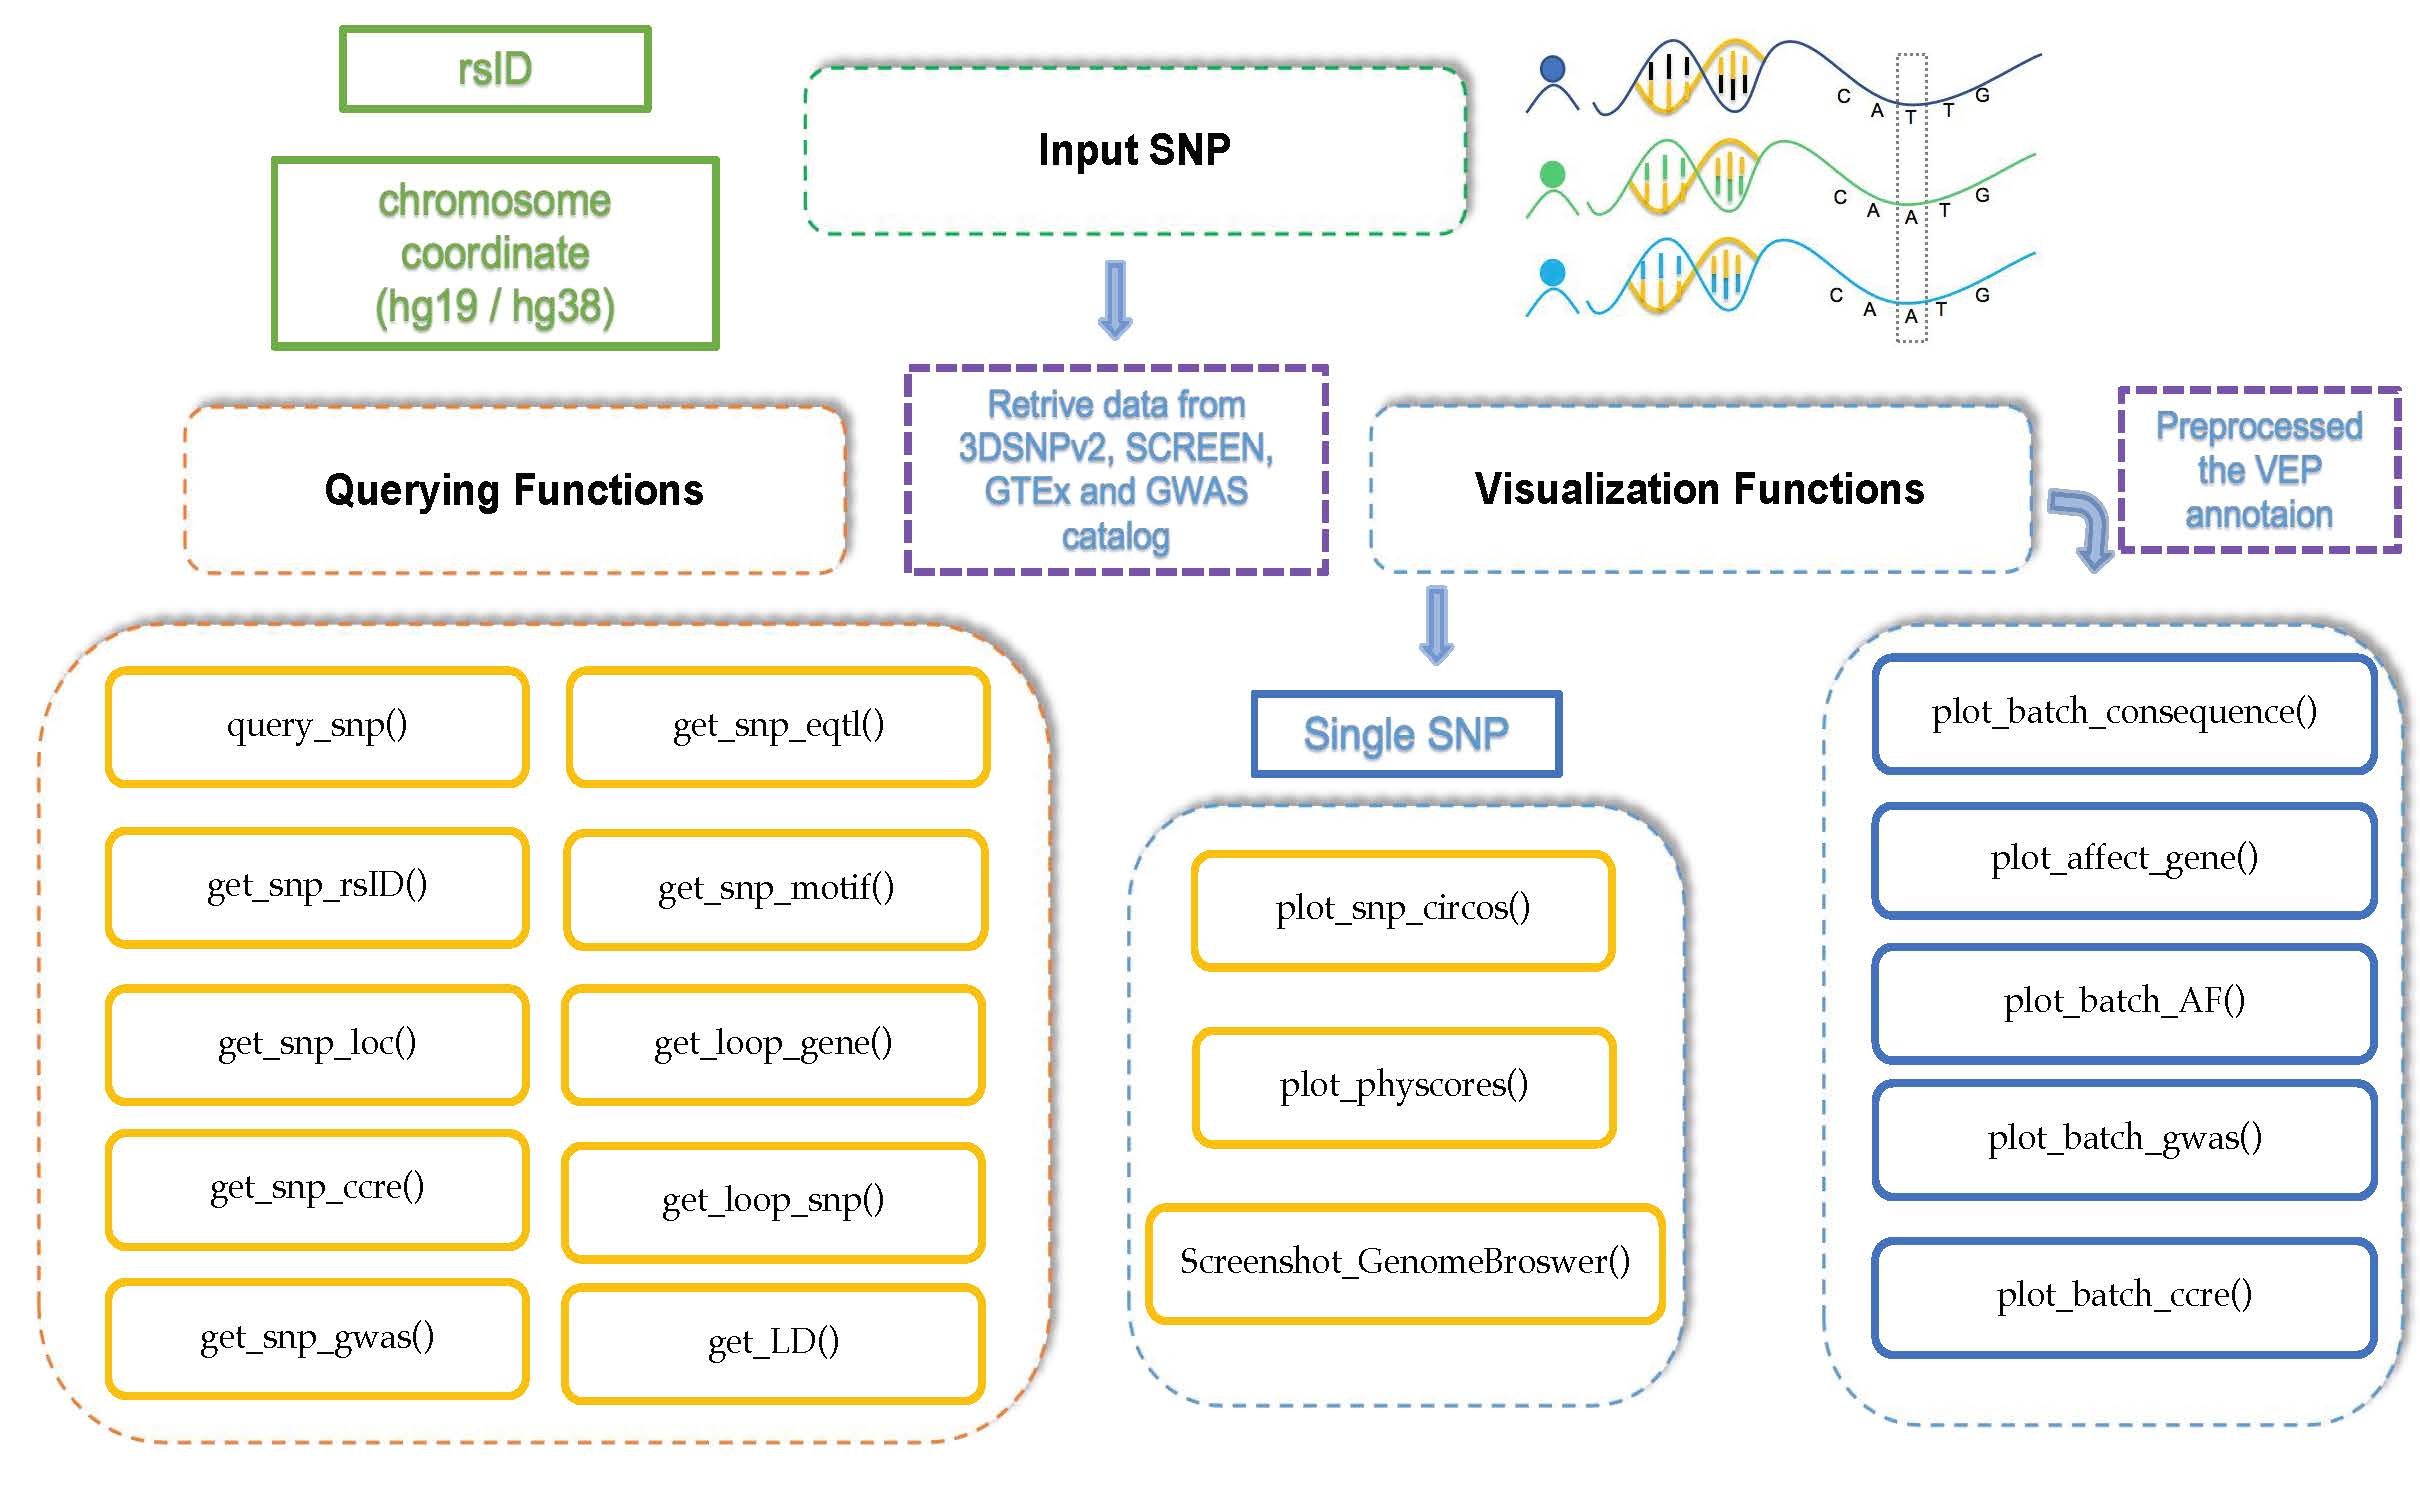
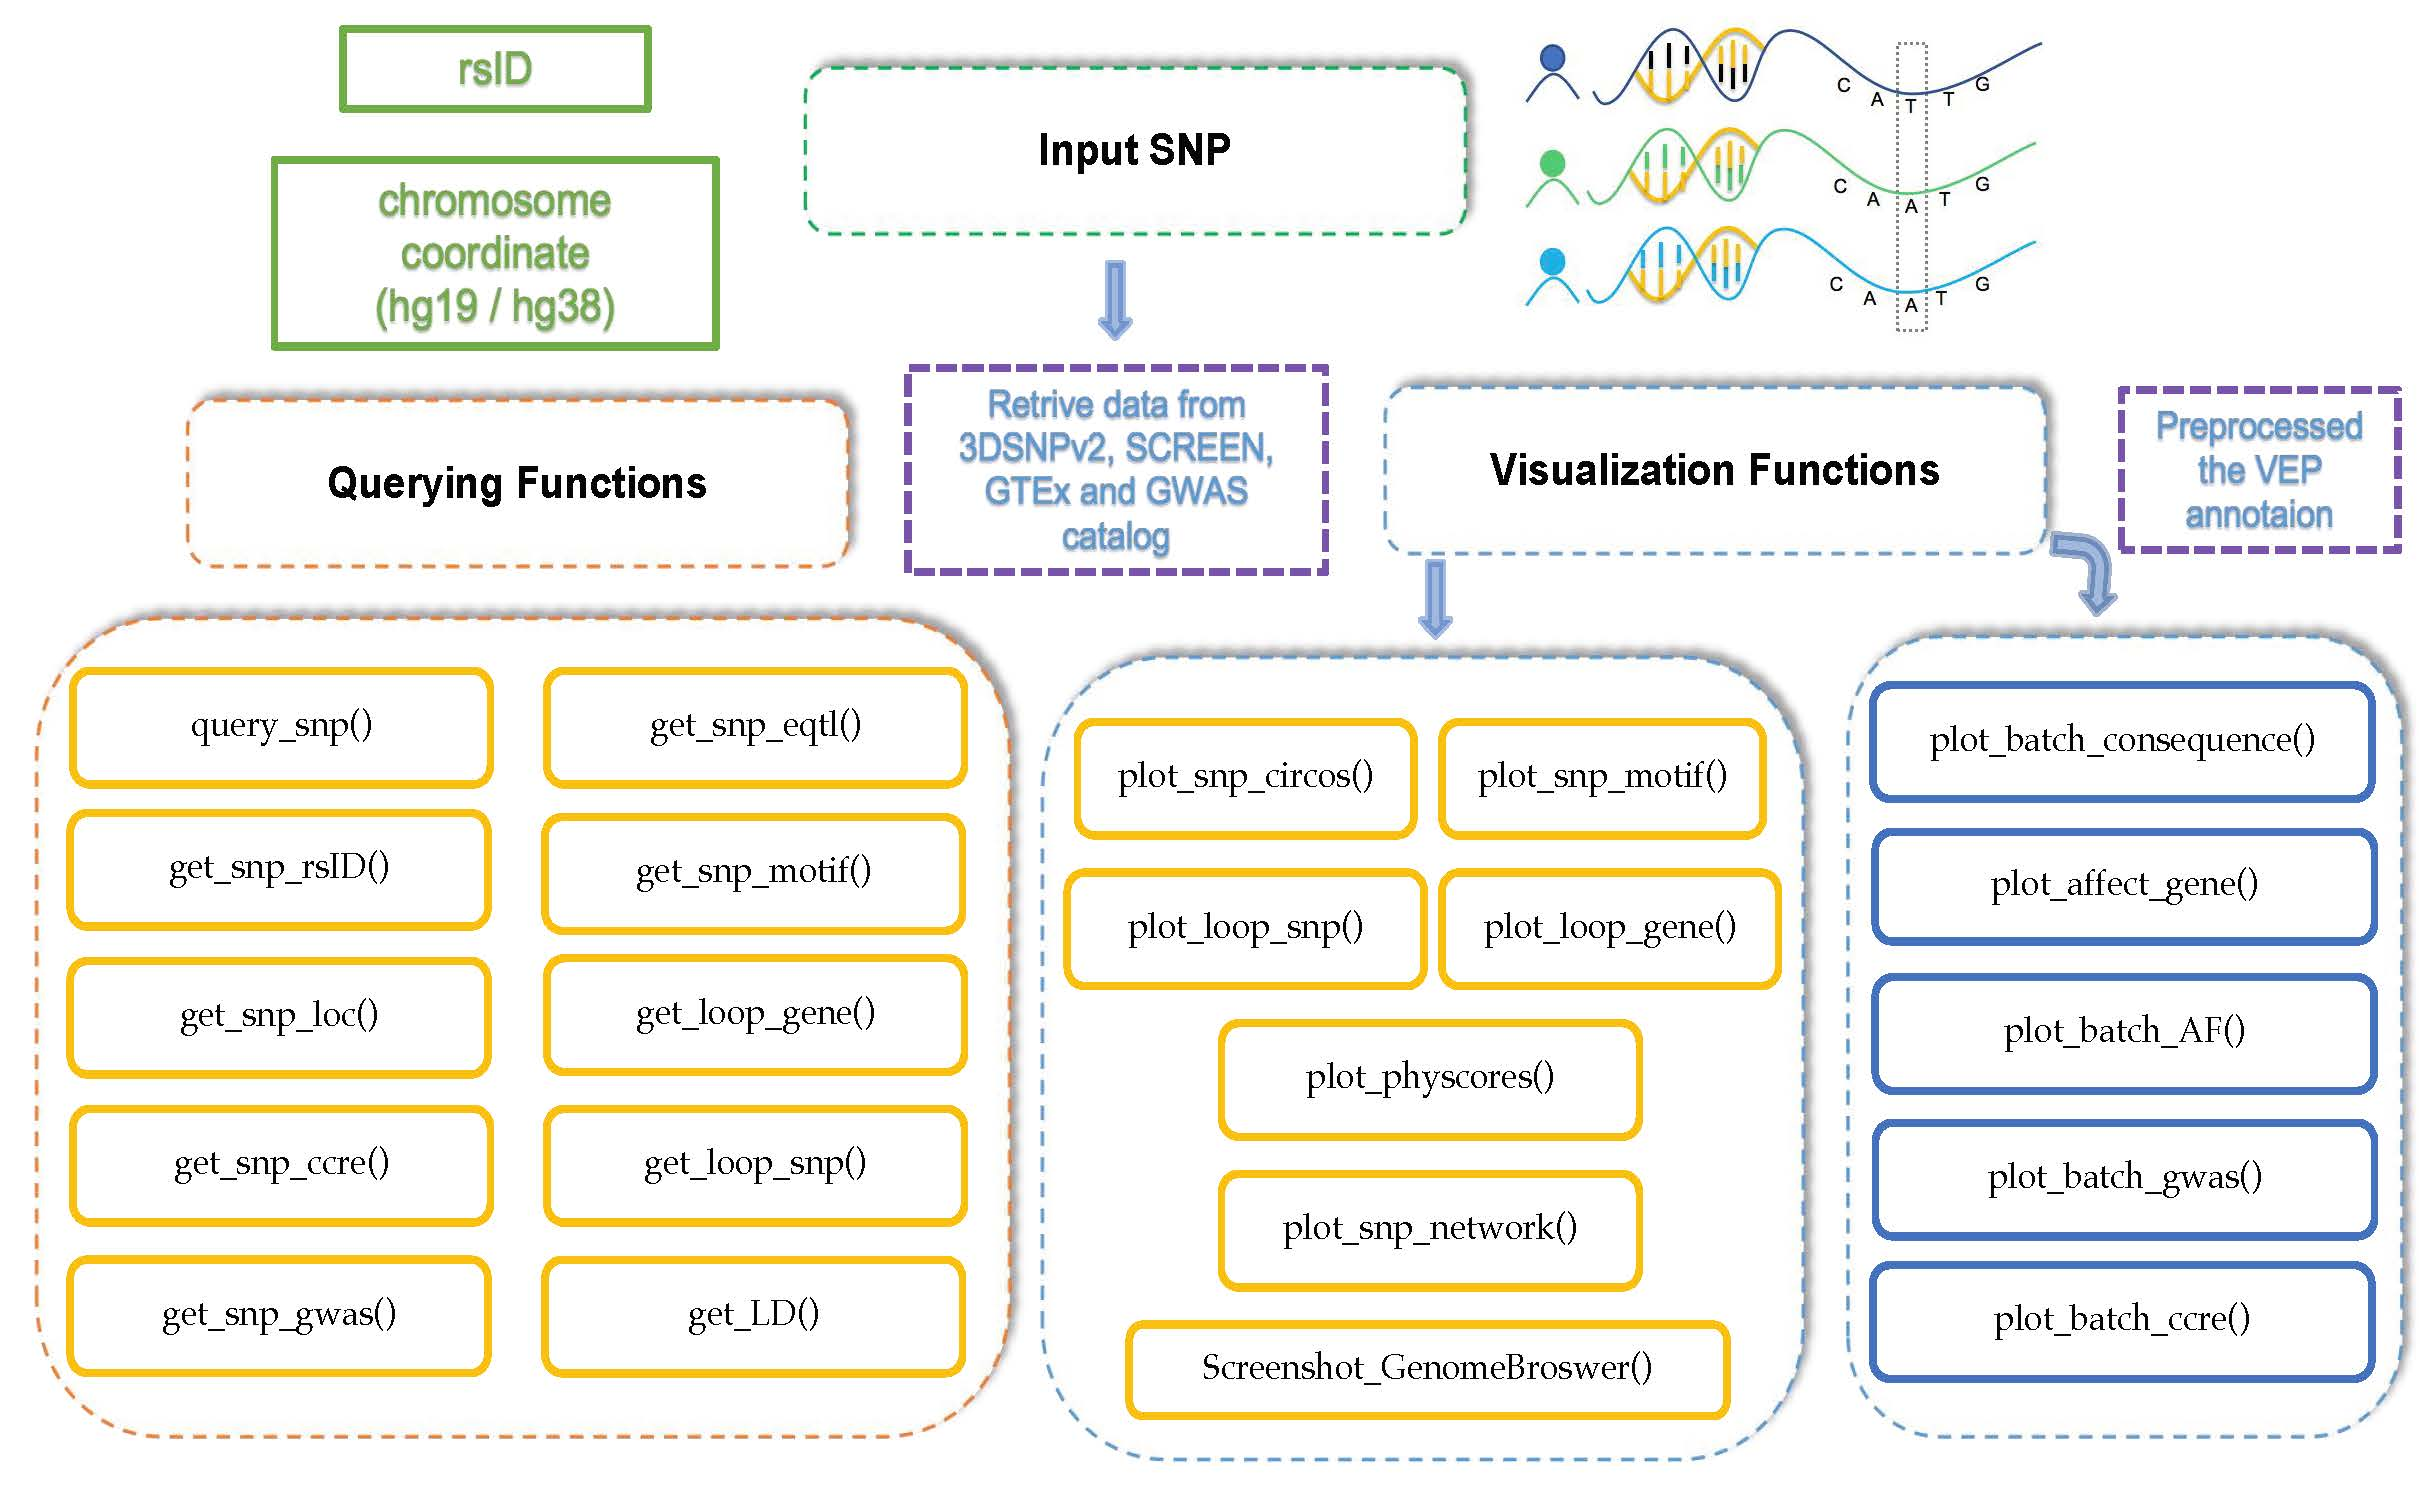
update

diff --git a/README.md b/README.md
@@ -86,9 +86,11 @@ cCRE_intersect <- get_snp_ccre(snp)
 
 ![](https://github.com/Liying1996/ViSNP/blob/master/example_figs/3_get_snp_ccre.png)
 
-#### ***get_snp_gwas(snp, input_type="rsID")***
+#### ***get_snp_gwas(snp, input_type="rsID", output_type="core")***
 
-Return the associated phenotypes and related research (from GWAS catelog) of the SNP.
+Return the associated phenotypes and related research (from GWAS catalog) of the SNP.  
+
+`output_type`: "core" or "full" can be selected. The output of "core" is subset of "full". Default is "core".
 
 ```{r}
 gwas_info <- get_snp_gwas("rs1891906")
@@ -116,23 +118,63 @@ get_snp_motif("chr1:109676139", "hg38")
 
 ![](https://github.com/Liying1996/ViSNP/blob/master/example_figs/6_get_snp_motif.png)
 
-#### ***get_loop_gene(snp, input_type="rsID")***
 
-Return 3D-interacting genes of a SNP
+
+***plot_snp_motif(snp, input_type="rsID")***
+
+```
+plot_snp_motif(snp="rs1059196")
+```
+
+![](https://github.com/Liying1996/ViSNP/blob/master/example_figs/6_plot_snp_motif.png)
+
+#### ***get_loop_gene(snp, input_type="rsID",  output_type="core")***
+
+Return 3D-interacting genes of a SNP.
+
+`output_type`: "core" or "full" can be selected. The output of "core" is subset of "full". Default is "core".
 
 ```{R}
-loop_genes <- get_loop_gene("rs1059196")
+loop_genes <- get_loop_gene("rs1059196", output_type="full")
 ```
 ![](https://github.com/Liying1996/ViSNP/blob/master/example_figs/11_loop_genes.jpg)
 
-#### ***get_loop_snp(snp, input_type="rsID")***
+***plot_loop_gene(snp, input_type="rsID", output_assembly="hg19", show_cells=3)***
+
+`output_assembly` Optional. The UCSC Assembly versions of chromosome coordinates of outputs. "hg19" or "hg38" can be selected. Default is "hg19".
+
+`show_cells` Optional. The number of cell types shown in the figure. Default is 3 (Top 3 cell types). The names of cell types are available as well.
+
+```
+plot_loop_gene(snp="rs10", output_assembly='hg38', show_cells=c("VentricleLeft", "Caki2", "HepG2"))
+```
+
+![](https://github.com/Liying1996/ViSNP/blob/master/example_figs/11_plot_loop_gene.jpg)
+
+#### ***get_loop_snp(snp, input_type="rsID",  output_type="core")***
 
 Return 3D-interacting SNPs of a SNP.
+
+`output_type`: "core" or "full" can be selected. The output of "core" is subset of "full". Default is "core".
 
 ```{R}
 loop_snps <- get_loop_snp("rs1059196")
 ```
 ![](https://github.com/Liying1996/ViSNP/blob/master/example_figs/11_loop_snps.jpg)
+
+***plot_loop_snp(snp, input_type="rsID", pop, output_assembly="hg19", show_cells=3)***
+
+`pop` Required. Population.
+
+`output_assembly` Optional. The UCSC Assembly versions of chromosome coordinates of outputs. "hg19" or "hg38" can be selected. Default is "hg19".
+
+`show_cells` Optional. The number of cell types shown in the figure. Default is 3 (Top 3 cell types). The names of cell types are available as well.
+
+```
+ plot_loop_snp(snp=”rs10“, pop = pop, show_cells = c("Ventricle_Right", "Spleen"))
+```
+
+![](https://github.com/Liying1996/ViSNP/blob/master/example_figs/11_plot_loop_snp.jpg)
 
 #### ***screenshot_GenomeBroswer(snp, input_type="rsID", filename, window_size=20)***
 
@@ -190,6 +232,16 @@ plot_snp_circos(snp_info_table=info_table, window_size = 1e5, savefile="~/test/c
 ```
 
 ![](https://github.com/Liying1996/ViSNP/blob/master/example_figs/9_circos.png)
+
+***plot_snp_network(snp, input_type = "rsID", colors="default")***
+
+`colors` Optional. Vectors with 6 colors. "default" is `brewer.pal(6, "Set1")`.
+
+```
+plot_snp_network(snp="rs1059196")
+```
+
+![](https://github.com/Liying1996/ViSNP/blob/master/example_figs/12_plot_networks.png)
 
 #### ***hg19tohg38(snp_loc)***
 
